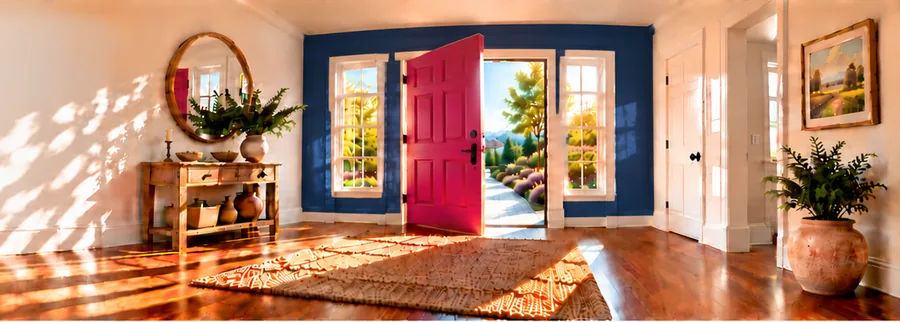
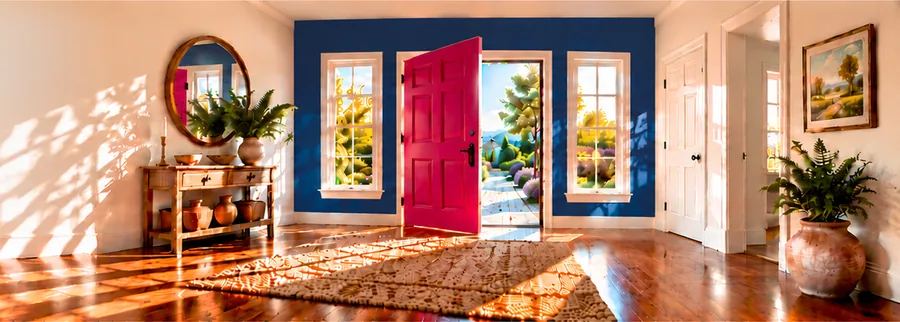
Homepage hero 2031: final navy-wall render
Owner's last ChatGPT pass: both windows match, trim corners are clean, and
sunlight falls across the navy wall. Same crops; left wall blended 55% toward
cream as before, tagline contrast 7.33:1 minimum, 7.63:1 median.

Claude-Session: https://claude.ai/code/session_01EfD7Mnybftg6QaoMS7j2Y4

diff --git a/src/pages/RPPHomeV3.tsx b/src/pages/RPPHomeV3.tsx
@@ -88,7 +88,9 @@ const RPPHomeV3 = () => {
             /* rpp-hero-2031 (Oct 18, 2026): the owner's new entryway render with
                a magenta door matching the logo, and (same evening, his idea) a navy
                accent wall behind the door to echo the logo's A — regenerated in
-               ChatGPT so the wall carries the room's light rather than a flat fill. Same 1920x364 band and the same
+               ChatGPT so the wall carries the room's light rather than a flat fill.
+               Final render (Oct 18, 21:30): matching windows, clean trim, sunlight
+               on the navy wall; tagline contrast 7.33:1 minimum. Same 1920x364 band and the same
                mobile crops. The render was warmer than 2030, so the left wall
                (the tagline's column) was blended 55% toward cream, feathered out
                before the mirror; navy on it measures 7.25:1 at its weakest
